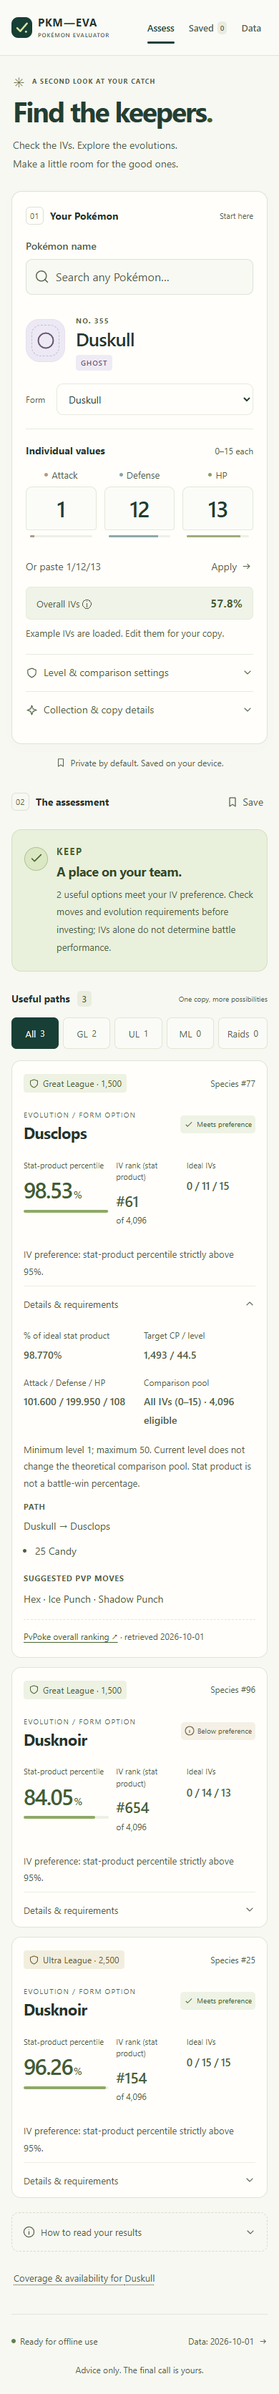
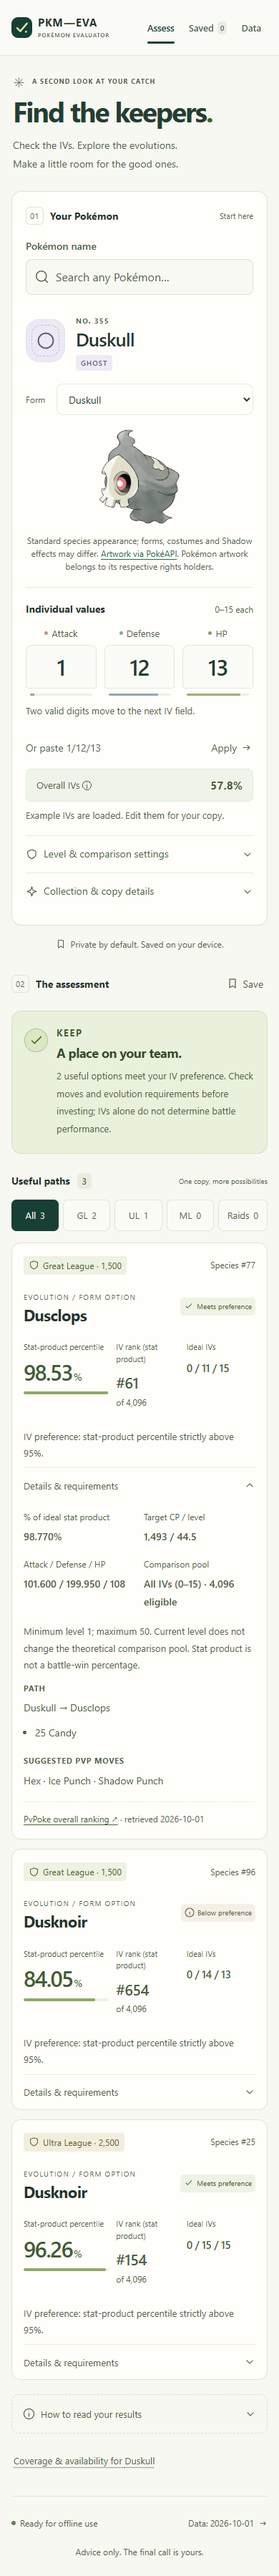
add picture, add input box auto progression

diff --git a/src/App.tsx b/src/App.tsx
@@ -8,6 +8,7 @@ import { Selector } from './components/Selector';
 import { BrandMark, Icon } from './components/Icon';
 import { ResultCard, leagueNames } from './components/ResultCard';
 import { DataPanel } from './components/DataPanel';
+import { PokemonPicture } from './components/PokemonPicture';
 import type { CalculationRequest, CalculationResponse } from './worker/calculator.worker';
 
 const defaults: Settings = {
@@ -59,6 +60,7 @@ export default function App({ data }: { data: Catalog }) {
   const [page, setPage] = useState<'assess' | 'saved' | 'data'>('assess');
   const [selectedId, setSelectedId] = useState('duskull');
   const [fields, setFields] = useState(['1', '12', '13']);
+  const ivInputs = useRef<(HTMLInputElement | null)[]>([]);
   const [edited, setEdited] = useState(false);
   const [paste, setPaste] = useState('');
   const [pasteError, setPasteError] = useState('');
@@ -362,6 +364,7 @@ export default function App({ data }: { data: Catalog }) {
                     onSelect={choose}
                     recent={recent}
                   />
+                  <PokemonPicture key={selected.dex} dex={selected.dex} />
                   <div className="iv-section">
                     <div className="label-row">
                       <h3>Individual values</h3>
@@ -376,6 +379,9 @@ export default function App({ data }: { data: Catalog }) {
                           </label>
                           <input
                             id={`iv-${i}`}
+                            ref={(element) => {
+                              ivInputs.current[i] = element;
+                            }}
                             type="text"
                             inputMode="numeric"
                             pattern="[0-9]*"
@@ -385,8 +391,12 @@ export default function App({ data }: { data: Catalog }) {
                             aria-describedby={!ivs ? 'iv-error' : undefined}
                             onFocus={(e) => e.target.select()}
                             onChange={(e) => {
-                              setFields(fields.map((v, n) => (n === i ? e.target.value : v)));
+                              const value = e.target.value;
+                              setFields(fields.map((v, n) => (n === i ? value : v)));
                               setEdited(true);
+                              if (/^\d{2}$/.test(value) && Number(value) <= 15) {
+                                ivInputs.current[i + 1]?.focus();
+                              }
                             }}
                             onPaste={(e) => {
                               const text = e.clipboardData.getData('text');
@@ -411,6 +421,7 @@ export default function App({ data }: { data: Catalog }) {
                         Enter a whole number from 0 to 15 in each IV field.
                       </p>
                     )}
+                    <p className="small-note">Two valid digits move to the next IV field.</p>
                     <form
                       className="paste-row"
                       onSubmit={(e) => {

diff --git a/tests/ui/app.spec.ts b/tests/ui/app.spec.ts
@@ -10,6 +10,51 @@ const search = async (page: Page, name: string) => {
 const stable = async (page: Page) => {
   await expect(page.getByRole('button', { name: 'Save', exact: true })).toBeEnabled();
 };
+
+test('two valid IV digits advance focus without skipping invalid or single digits', async ({
+  page,
+}) => {
+  await page.goto('/');
+  const attack = page.getByLabel('Attack', { exact: true });
+  const defense = page.getByLabel('Defense', { exact: true });
+  const hp = page.getByLabel('HP', { exact: true });
+  await attack.fill('');
+  await attack.pressSequentially('1');
+  await expect(attack).toBeFocused();
+  await attack.pressSequentially('5');
+  await expect(defense).toBeFocused();
+  await page.keyboard.type('09');
+  await expect(defense).toHaveValue('09');
+  await expect(hp).toBeFocused();
+  await page.keyboard.type('15');
+  await expect(hp).toBeFocused();
+  await expect(hp).toHaveValue('15');
+  await attack.fill('99');
+  await expect(attack).toBeFocused();
+  await expect(attack).toHaveAttribute('aria-invalid', 'true');
+});
+
+test('species pictures change with selection and fail gracefully', async ({ page }) => {
+  await page.route('https://raw.githubusercontent.com/PokeAPI/sprites/**', (route) =>
+    route.request().url().endsWith('/25.png')
+      ? route.abort()
+      : route.fulfill({
+          contentType: 'image/svg+xml',
+          body: '<svg xmlns="http://www.w3.org/2000/svg" width="144" height="144"><circle cx="72" cy="72" r="50"/></svg>',
+        }),
+  );
+  await page.goto('/');
+  await expect(
+    page.getByRole('img', { name: 'Standard species artwork for Pokédex #355' }),
+  ).toBeVisible();
+  await search(page, 'Pikachu');
+  await expect(page.getByText('Picture unavailable offline or from source.')).toBeVisible();
+  await stable(page);
+  await search(page, 'Duskull');
+  await expect(
+    page.getByRole('img', { name: 'Standard species artwork for Pokédex #355' }),
+  ).toBeVisible();
+});
 test('percentile default upgrades once while preserving later custom preferences', async ({
   page,
 }) => {

diff --git a/src/components/PokemonPicture.tsx b/src/components/PokemonPicture.tsx
@@ -1,0 +1,30 @@
+import { useState } from 'react';
+
+export function PokemonPicture({ dex }: { dex: number }) {
+  const [failed, setFailed] = useState(false);
+  return (
+    <figure className="pokemon-picture">
+      {failed ? (
+        <div className="pokemon-picture-placeholder">
+          Picture unavailable offline or from source.
+        </div>
+      ) : (
+        <img
+          src={`https://raw.githubusercontent.com/PokeAPI/sprites/master/sprites/pokemon/other/official-artwork/${dex}.png`}
+          alt={`Standard species artwork for Pokédex #${dex}`}
+          width={144}
+          height={144}
+          referrerPolicy="no-referrer"
+          onError={() => setFailed(true)}
+        />
+      )}
+      <figcaption>
+        Standard species appearance; forms, costumes and Shadow effects may differ.{' '}
+        <a href="https://github.com/PokeAPI/sprites" target="_blank" rel="noreferrer">
+          Artwork via PokéAPI
+        </a>
+        . Pokémon artwork belongs to its respective rights holders.
+      </figcaption>
+    </figure>
+  );
+}

diff --git a/src/styles.css b/src/styles.css
@@ -423,6 +423,26 @@ abbr {
   margin: 24px 0 19px;
   align-items: center;
 }
+.pokemon-picture {
+  margin: 12px 0 20px;
+  text-align: center;
+}
+.pokemon-picture img {
+  display: block;
+  margin: 0 auto 8px;
+  object-fit: contain;
+}
+.pokemon-picture figcaption {
+  font-size: 12px;
+  color: var(--muted);
+  line-height: 1.5;
+}
+.pokemon-picture-placeholder {
+  min-height: 144px;
+  display: grid;
+  place-items: center;
+  color: var(--muted);
+}
 .mon-emblem {
   width: 55px;
   height: 60px;

diff --git a/README.md b/README.md
@@ -134,7 +134,7 @@ If an older deployment loaded once and then shows `ERR_FAILED`, first deploy the
 5. Rankings use the source’s format configuration, not a fresh simulation at your chosen maximum level. Ideal stat product does not optimize every matchup, breakpoint or charge-move priority tie. Minimum-level overrides need maintenance; the default all-IV pool intentionally includes theoretical acquisition-impossible spreads.
 6. Install prompts and storage retention vary by browser. Chrome desktop emulation was verified; physical iOS/Android devices remain a useful follow-up.
 
-Optional follow-ups: more official release evidence, manually reviewed budget raid options, copy-specific move inputs, import/export of saved assessments, localization, and physical-device testing. Pokémon artwork is deliberately unnecessary; the app’s geometric icon is original.
+Optional follow-ups: more official release evidence, manually reviewed budget raid options, copy-specific move inputs, import/export of saved assessments, localization, and physical-device testing. The app’s geometric icon is original. Standard species artwork loads from [PokéAPI sprites](https://github.com/PokeAPI/sprites); it may not match the selected form, costume, gender, shiny or Shadow appearance. Artwork remains subject to its respective owners' rights and is not relicensed by this project's MIT license. Pictures require network access or the browser's existing image cache; missing images do not prevent offline calculations.
 
 ## Source structure
 

diff --git a/docs/privacy.md b/docs/privacy.md
@@ -8,6 +8,8 @@ Clear this site's browser storage to remove all local records and offline caches
 
 Online visits and update checks request app files and catalogs from the hosting provider. These requests expose normal connection metadata, such as IP address, request path and browser headers, to the provider. The checked-in Cloudflare configuration enables persisted observability and invocation logs; actual coverage and retention depend on the deployed service and account settings. This document does not promise zero hosting logs or a specific retention period. See [Cloudflare's privacy policy](https://www.cloudflare.com/privacypolicy/).
 
+Species pictures load from PokéAPI's sprite repository on raw.githubusercontent.com. That host receives normal connection metadata and the requested Pokédex image number, but no referrer, IVs or saved assessments. Pictures are not included in the offline precache and may be unavailable offline.
+
 The app does not send entered IVs, saved assessments or preferences to third-party ranking providers during searches. Opening an external source link visits that provider under its own policies. Data-maintenance scripts fetch source sites when a maintainer explicitly runs an update; those scripts are separate from ordinary app use.
 
 Forks and other deployments may change this behavior. Avoid putting private information in public issue reports or screenshots. Report suspected security problems using the [security policy](../SECURITY.md).
